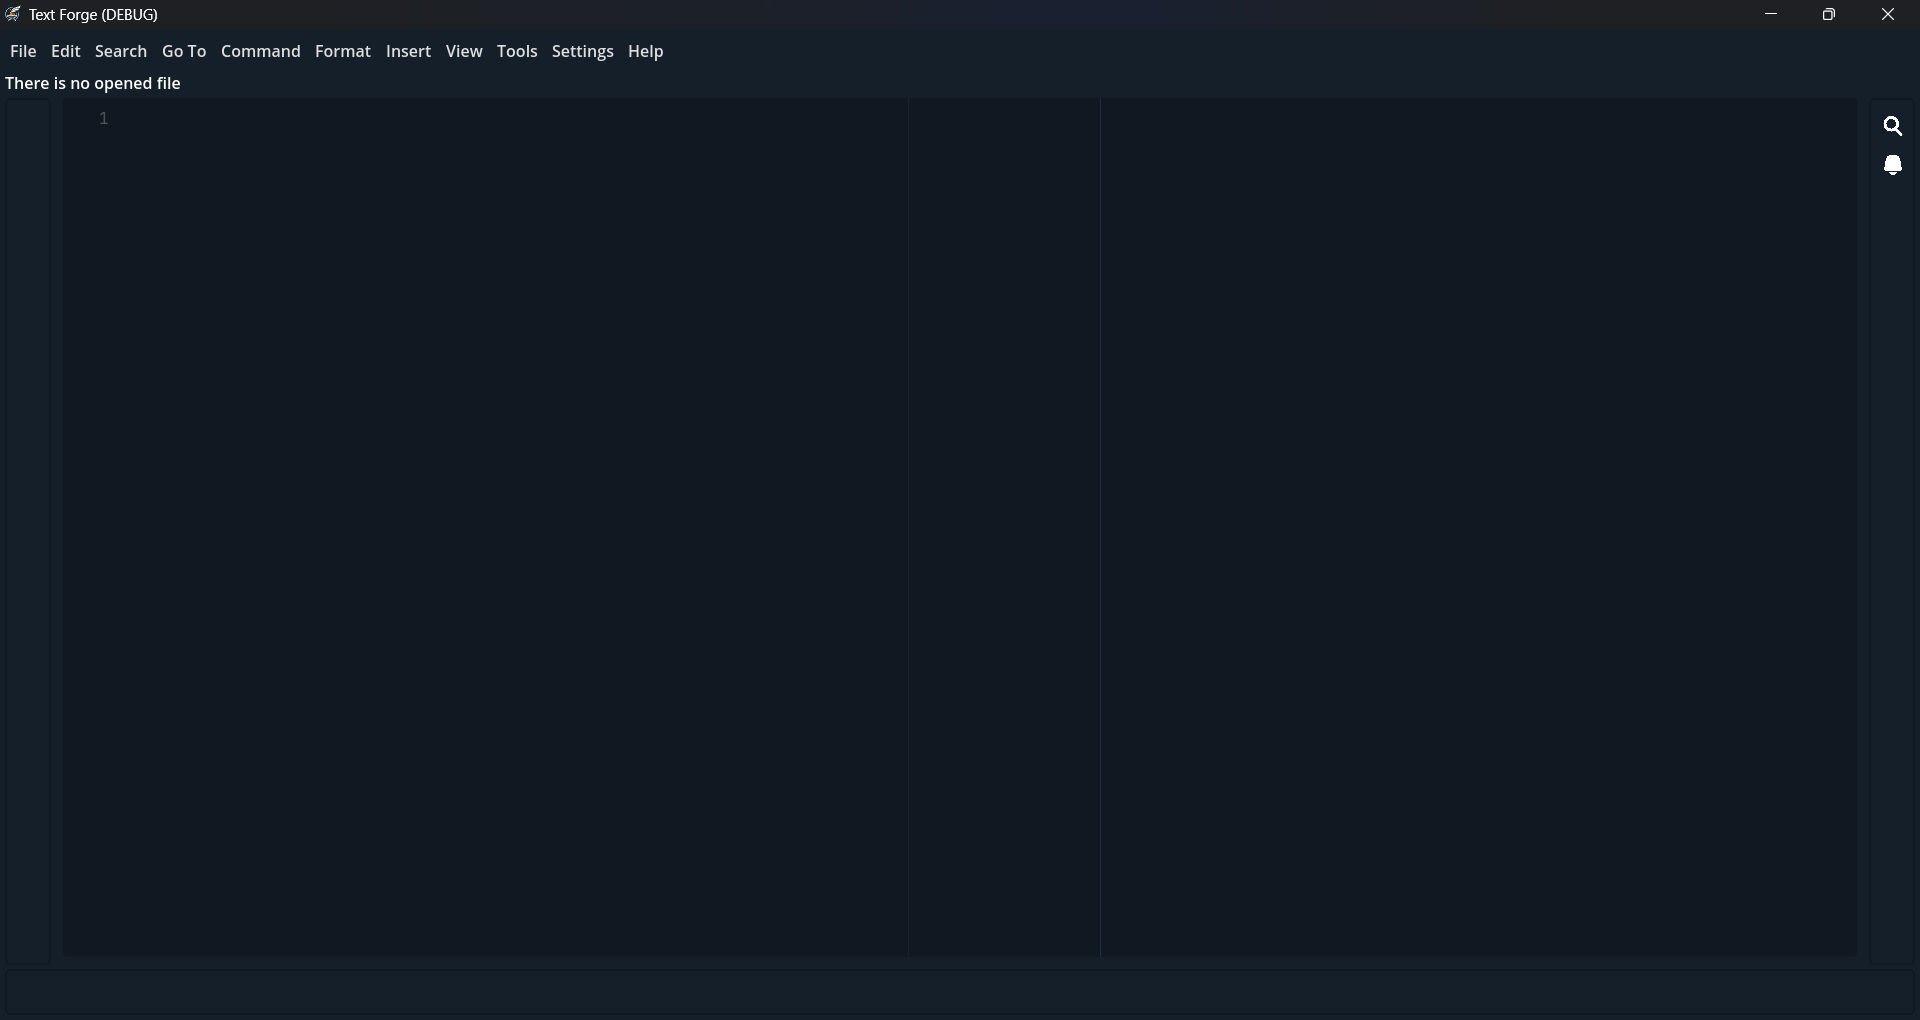
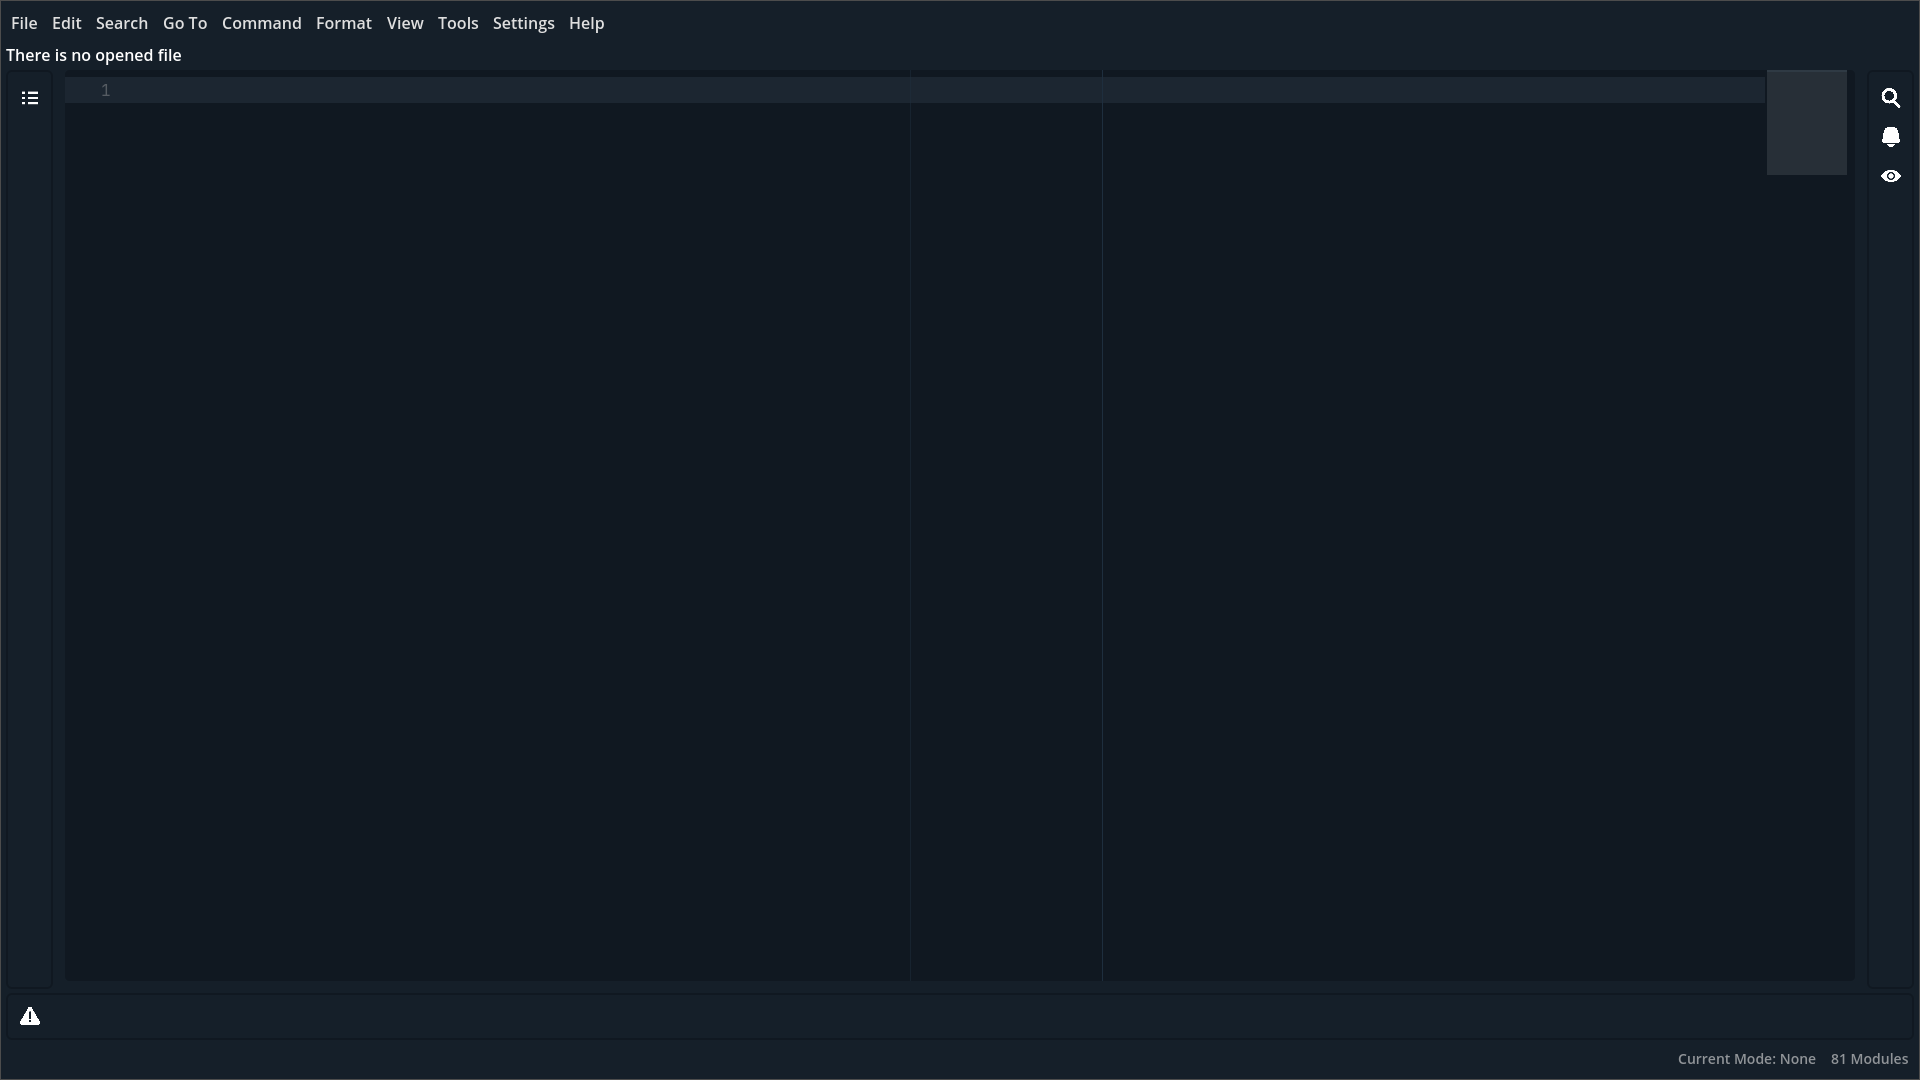
Update documentation images and texts

diff --git a/docs/setup.md b/docs/setup.md
@@ -16,15 +16,13 @@ Now, you have a very lightweight editor, it's more like a core. There is a lot o
 panel, etc. but you need another type of module too for work with you editor. This type is **Mode**, you can find more 
 about modes [here](modes.md), but for now let's get your modes from official mode library!
 
-### Download Modes or Standard Package
+### Download Modes or Mode Kits
 
-You can go [here](https://github.com/text-forge/mode-library/releases/latest) and download modes you want, instead if
-you like have a standard collection of modes you can use **Standard Package** (You can read more about packages [here](modes.md#packages)),
-to get this package you should navigate to [this section](https://github.com/text-forge/mode-library/wiki/Packages#standard) 
-in [packages list](https://github.com/text-forge/mode-library/wiki/Packages) and click on `Standard` to download package file.
+You can go [here](https://github.com/text-forge/mode-library) to find and download modes you want. Just click on name of
+mode you want and read setup guide in mode repository.
 
-Then, you have one (or more) `.zip` or `.tfmode` file, you can import them with `Settings > Mode Manager > Import Mode / Package`,
-If everything done well, you will receive an **info** notification that says `"Load mode / package completed"` and you 
+Then, you have one (or more) `.zip` or `.tfmode` file, you can import them with `Settings > Mode Manager > Import Mode / Mode Kit`,
+If everything done well, you will receive an **info** notification that says `"Load mode / mode kit completed"` and you 
 can use your new modes now without restart editor.
 
 ## Open A File
@@ -32,7 +30,7 @@ can use your new modes now without restart editor.
 You have a ready code editor! Let's open a file:
 
 - In top left of editor you have a list of menus. Click on `File` menu in top left.
-- Click on `Open` and select you file from opened file dialog.
+- Click on `Open` and select your file in opened file dialog.
   - Based on your file type (extension), Text Forge will open it in one of these ways:
     1. **You have one installed mode for this file:** Here, Text Forge will use mode to load file in editor and loads syntax highlighter from mode.
     2. **You have some installed mode for this file:** A popup will show, and you can select a mode to open file, then we have first situation.

diff --git a/docs/introduction.md b/docs/introduction.md
@@ -14,7 +14,7 @@ Text Forge is an open source code editor based on:
 * object-oriented design 
 * plug-and-play extension architecture
 
-![Simple screenshot](https://text-forge.github.io/docs/img/introduction_screenshot.png)
+![Simple screenshot](https://text-forge.github.io/docs/img/auto-formatter-after.png)
 
 Text Forge is a response to the growing demand for tools that empower rather than constrain. Designed as a standalone text editor with a focus on modularity, deep customization, and minimal design, it offers a flexible and efficient foundation for users who want full control over their editing environment.
 
